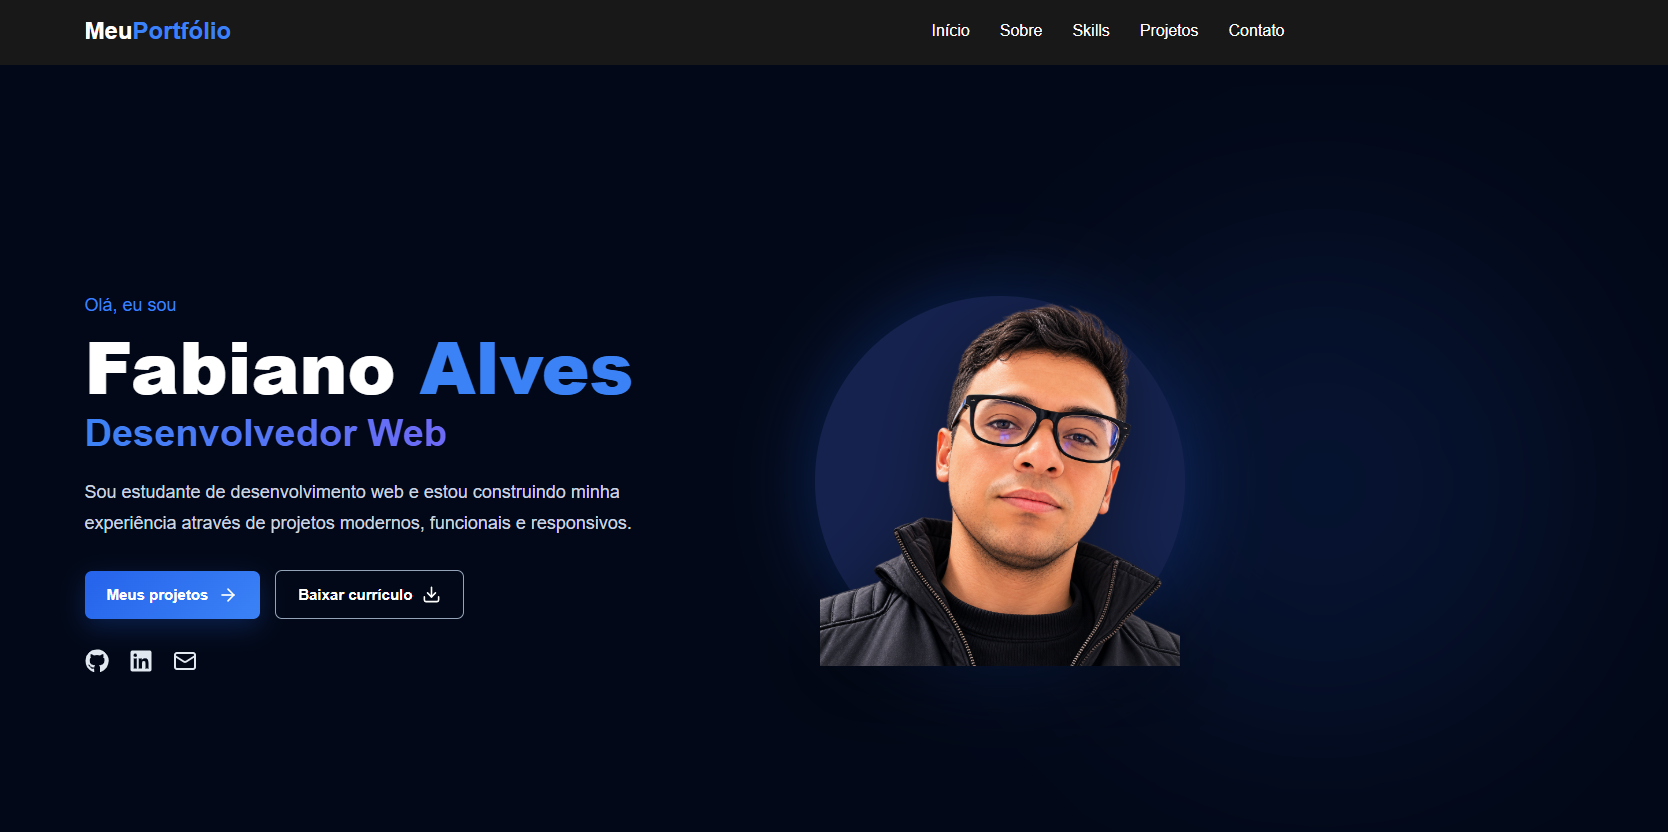
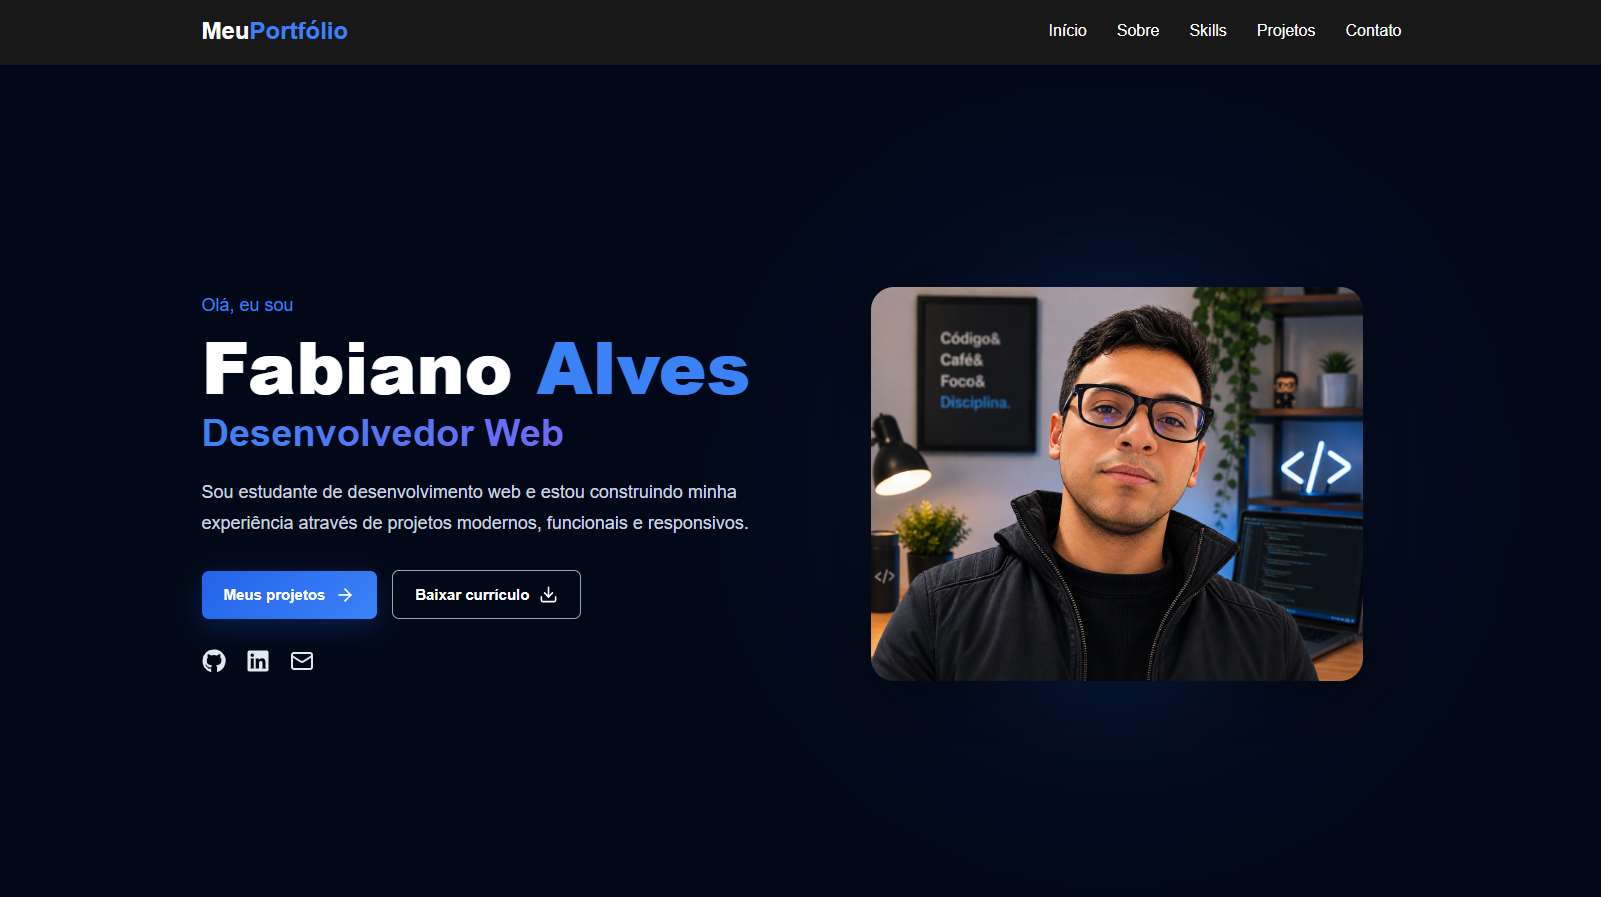
feature(revisao) Revisão terminada

diff --git a/src/components/Projeto.jsx b/src/components/Projeto.jsx
@@ -15,8 +15,8 @@ function Projetos() {
 
           <div className='projeto-content'>
             <h3>
-              CONSTRULINK - Conectando clientes aos profissionais certos para
-              cada serviço.
+              <span id='cor-texto'>Construlink</span> - Conectando clientes aos
+              profissionais certos para cada serviço.
             </h3>
 
             <p>
@@ -34,7 +34,11 @@ function Projetos() {
               <span>REACT</span>
             </div>
 
-            <a href='#' className='projeto-link'>
+            <a
+              href='https://github.com/NatanSamuel52/Contrulink'
+              target='_blank'
+              className='projeto-link'
+            >
               Ver projeto
             </a>
           </div>
@@ -47,19 +51,25 @@ function Projetos() {
           </div>
 
           <div className='projeto-content'>
-            <h3>Meu Portfólio</h3>
+            <h3>
+              <span id='cor-texto'>Meu Portifólio</span>
+            </h3>
 
             <p>
               Portfólio pessoal desenvolvido com React, JavaScript, HTML e CSS.
             </p>
 
             <div className='projeto-techs'>
-              <span>REAACT</span>
+              <span>REACT</span>
               <span>JAVASCRIPT</span>
               <span>CSS</span>
             </div>
 
-            <a href='#' className='projeto-link'>
+            <a
+              href='https://github.com/fabiano-santos-dev/meu-portfolio-react'
+              target='_blank'
+              className='projeto-link'
+            >
               Ver projeto
             </a>
           </div>

diff --git a/src/components/Sobre.jsx b/src/components/Sobre.jsx
@@ -14,7 +14,7 @@ function About() {
           <h2>Um pouco sobre mim</h2>
 
           <p>
-            Sou estudante de desenvolvimento web e estou sempre em busca de
+            Sou estudante de Análise e Desenvolvimento de Sistemas e estou sempre em busca de
             novos conhecimentos. Gosto de transformar ideias em projetos reais e
             funcionais.
           </p>

diff --git a/src/css/projetos.css b/src/css/projetos.css
@@ -120,3 +120,24 @@
 .projeto-link:hover {
   background: #1d4ed8;
 }
+#cor-texto{
+  color: rgb(28, 101, 238);
+}
+@media (max-width: 768px) {
+  .projetos {
+    padding: 70px 0;
+  }
+
+  .projetos h2 {
+    font-size: 32px;
+  }
+
+  .projetos-grid {
+    grid-template-columns: 1fr;
+  }
+
+  .projeto-image img {
+    height: auto;
+    object-fit: contain;
+  }
+}

diff --git a/src/css/skills.css b/src/css/skills.css
@@ -23,7 +23,7 @@
   margin: 0 auto;
 
   display: grid;
-  grid-template-columns: repeat(3, 1fr);
+  grid-template-columns: repeat(6, 1fr);
   gap: 25px;
 }
 
